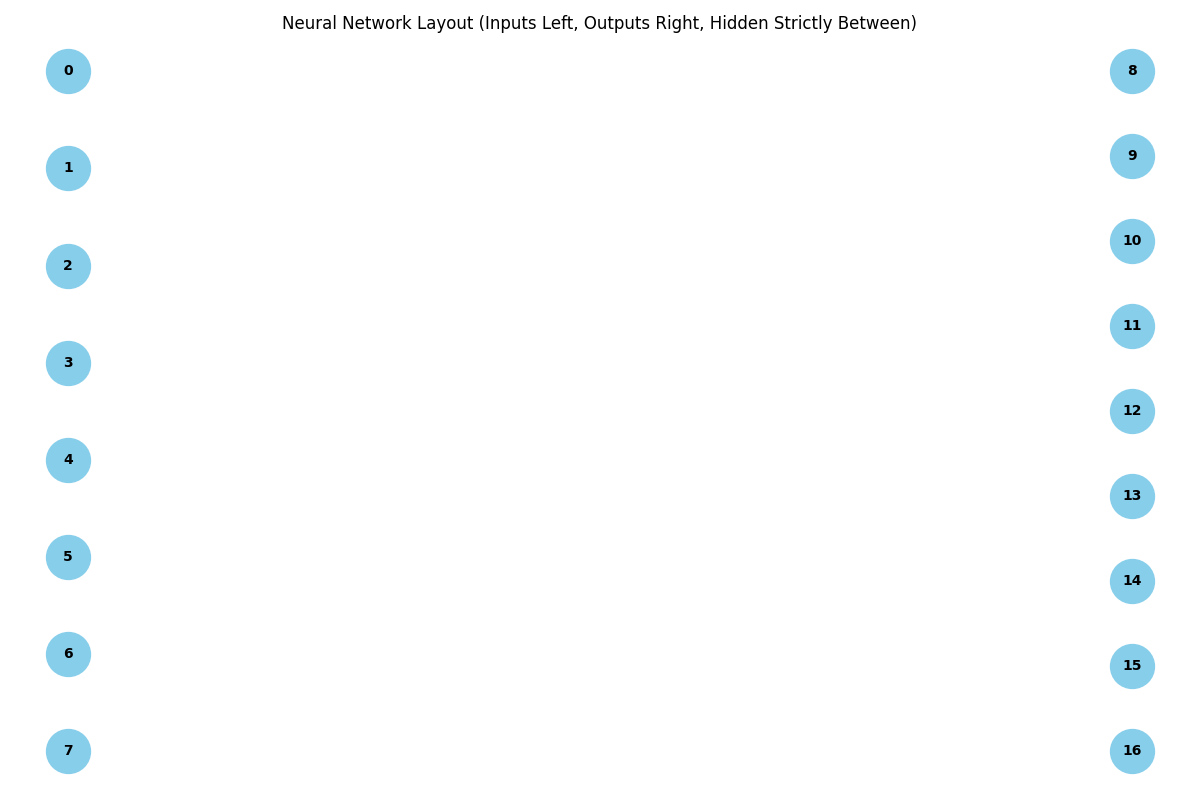
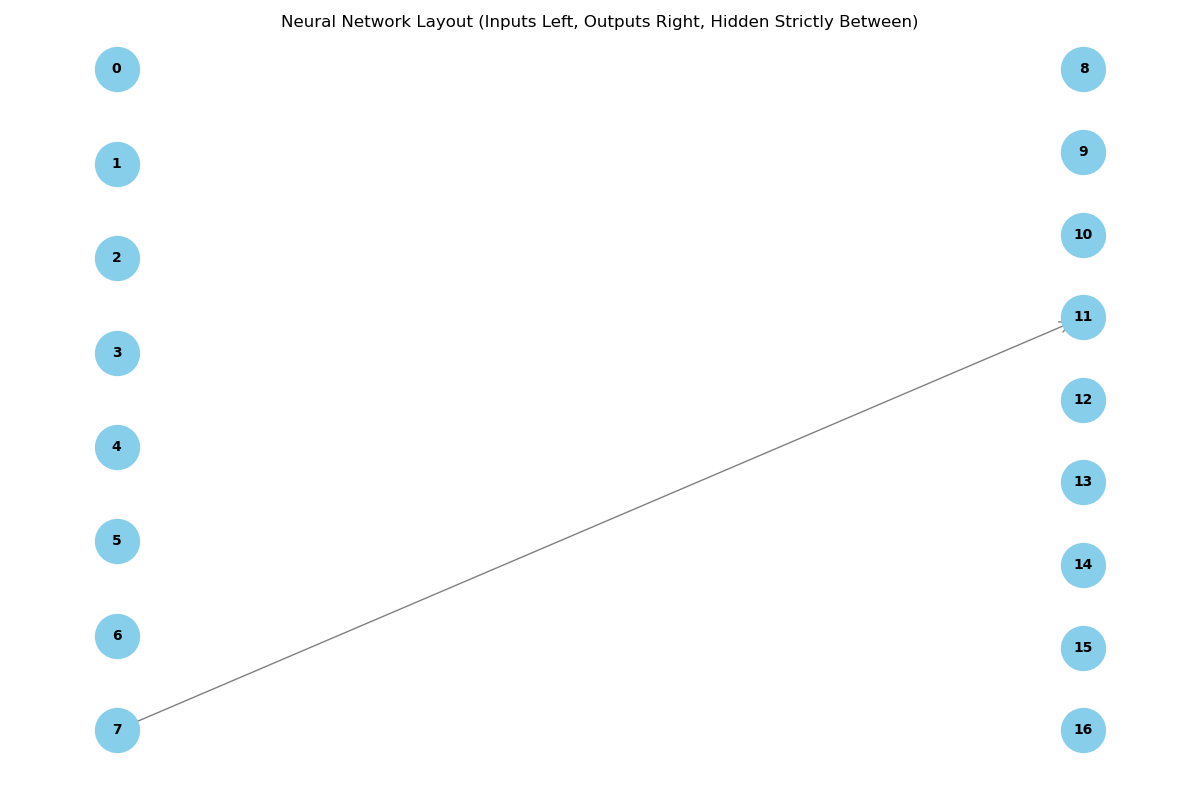
Fixed the node problem

diff --git a/Framework/GOD.py b/Framework/GOD.py
@@ -70,7 +70,7 @@ class GOD:
 				conn.enabled = False
 				done = True
 			else:
-				new_node = Node(globals.nodes, True, random.normalvariate(0, 1), Globals.Type.HIDDEN)
+				new_node = Node(globals.nodes, random.normalvariate(0, 1), Globals.Type.HIDDEN)
 				globals.nodes += 1
 				genome.nodes.append(new_node)
 				# print("adding a node between ", conn.IN.id, "and", conn.OUT.id)
@@ -112,14 +112,19 @@ class GOD:
 		sorted(genome1.connections, key = lambda c: c.innov)
 		sorted(genome2.connections, key = lambda c: c.innov)
 		genome = Genome(globals)
-		genome.nodes = list(set(genome1.nodes).union(set(genome2.nodes)))
+		for node in genome1.nodes:
+			if node.type != Globals.Type.INPUT and node.type != Globals.Type.OUTPUT:
+				genome.nodes.append(Node(node.id, node.bias, node.type))
+		for node in genome2.nodes:
+			if node.type != Globals.Type.INPUT and node.type != Globals.Type.OUTPUT:
+				genome.nodes.append(Node(node.id, node.bias, node.type))
 		i = 0
 		j = 0
 		while i < len(genome1.connections) and j < len(genome2.connections):
 			# print("i: ", i, "j: ", j, "len1: ", len(genome1.connections), "len2: ", len(genome2.connections), "innov1: ", genome1.connections[i].innov, "innov2: ", genome2.connections[j].innov)
 			if genome1.connections[i].innov == genome2.connections[j].innov:
 				genome.connections.append(
-					ConnectGene(genome1.connections[i].IN, genome1.connections[i].OUT, genome1.connections[i].weight, genome1.connections[i].enabled and genome2.connections[i].enabled, genome1.connections[i].innov)
+					ConnectGene(genome1.connections[i].IN, genome1.connections[i].OUT, genome1.connections[i].weight, genome1.connections[i].enabled and genome2.connections[j].enabled, genome1.connections[i].innov)
 				)
 				i += 1
 				j += 1
@@ -143,7 +148,10 @@ class GOD:
 			genome.connections.append(
 				ConnectGene(genome2.connections[j].IN, genome2.connections[j].OUT, genome2.connections[j].weight, genome2.connections[j].enabled, genome2.connections[j].innov)
 			)
-			j += 1	
+			j += 1
+
+		
+
 		return genome
 			
 	def Evaluate_and_Mutate(globals: Globals):
@@ -164,7 +172,7 @@ class GOD:
 		for i in range(int(globals.population * (1-POPULATION_TO_DESTROY))):
 			newGeneration.append(deepcopy(parentGeneration[i][1]))
 
-		to_be_mutated = random.sample(parentGeneration[:int(globals.population * (1-POPULATION_TO_DESTROY))], int(globals.population * POPULATION_TO_MUTATE))
+		to_be_mutated = random.sample(parentGeneration[:int(globals.population)], int(globals.population * POPULATION_TO_MUTATE))
 
 		for genome in to_be_mutated:
 			GOD.mutate(globals, genome[1], np.random.choice([Globals.Mutation.EDGE, Globals.Mutation.NODE, Globals.Mutation.WEIGHT],p=[MUTATE_CONNECTION, MUTATE_NODE, MUTATE_WEIGHT]))

diff --git a/Framework/NN.py b/Framework/NN.py
@@ -7,9 +7,8 @@ class Node:
 	'''
 		These are the nodes/neurons in the neural network.
 	'''
-	def __init__(self, id: int, enabled: bool, bias: float, type: int):
+	def __init__(self, id: int, bias: float, type: int):
 		self.id = id # uniquely identifies a node
-		self.enabled = enabled
 		self.bias = bias
 		self.type = type
 		self.activation = 0
@@ -48,9 +47,9 @@ class Genome:
 		self.nodes = []
 		for i in range(self.input_features + self.output_features):
 			if i < self.input_features:
-				self.nodes.append(Node(i, True, 0, globals.Type.INPUT))
+				self.nodes.append(Node(i, 0, globals.Type.INPUT))
 			else:
-				self.nodes.append(Node(i, True, 0, globals.Type.OUTPUT))
+				self.nodes.append(Node(i, 0, globals.Type.OUTPUT))
 		self.connections = []
 
 	# def draw_network(self):
@@ -224,7 +223,6 @@ class NN(torch.nn.Module):
 
 		for node in self.genome.nodes:
 			if(node.type == Globals.Type.OUTPUT):
-				# print(node.id)
 				get_activation(node)
 
 		return [self.genome.nodes[i].activation for i in range(len(self.genome.nodes)) if self.genome.nodes[i].type == Globals.Type.OUTPUT]

diff --git a/Framework/config.py b/Framework/config.py
@@ -3,6 +3,6 @@ POPULATION_TO_DESTROY = 0.5
 POPULATION_TO_MUTATE = 0.3
 POPULATION_TO_MATE = 0.2
 
-MUTATE_CONNECTION = 0
-MUTATE_NODE = 1
+MUTATE_CONNECTION = 0.5
+MUTATE_NODE = 0.5
 MUTATE_WEIGHT = 0
